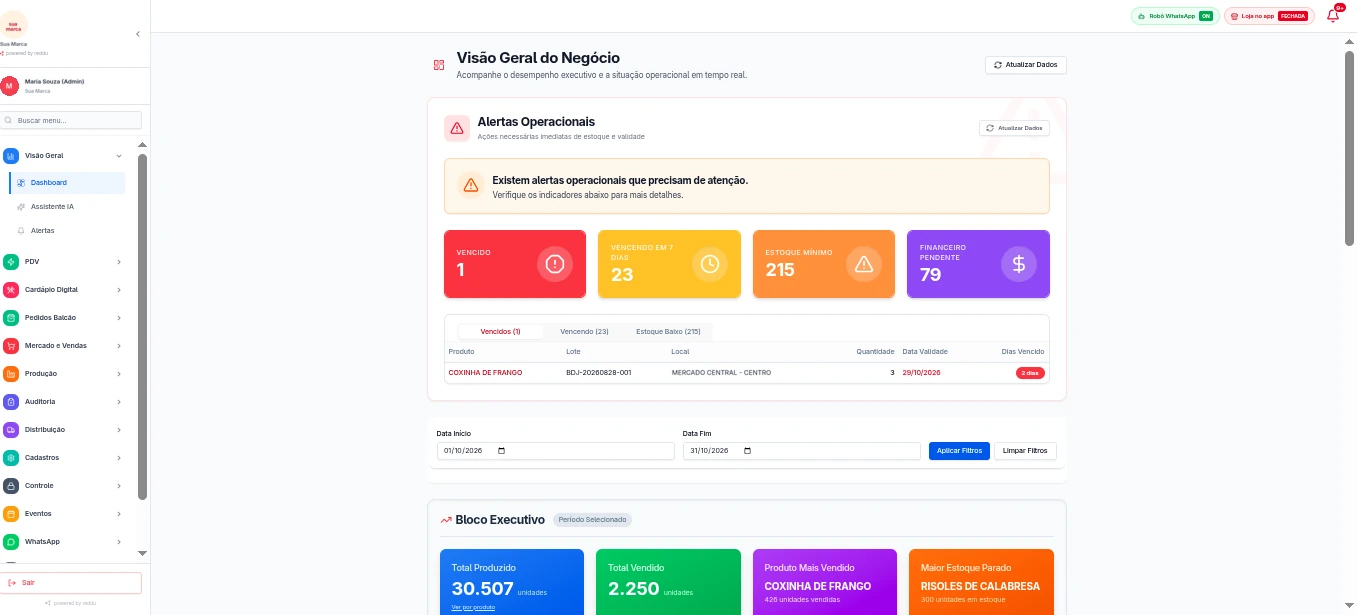
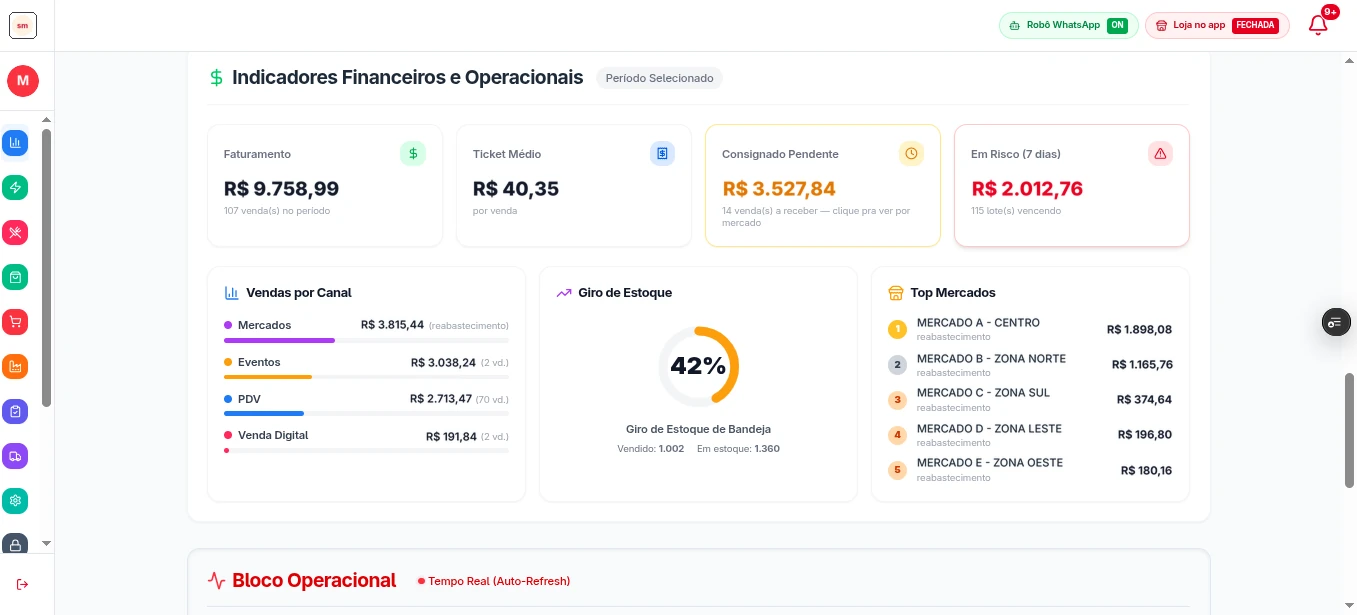
Troca a foto do painel pela tela de indicadores financeiros (anonimizada)
- Nomes de mercados, mascote e inicial da pessoa trocados por genéricos
- Valores reduzidos por um mesmo fator, mantendo as proporções
- Legendas e textos alternativos atualizados para a nova imagem

Claude-Session: https://claude.ai/code/session_012PVGvbjGC6SNyp75Yfze3E

diff --git a/apps/web/src/components/home/SystemTour.jsx b/apps/web/src/components/home/SystemTour.jsx
@@ -18,11 +18,11 @@ export default function SystemTour() {
               src="/screens/dashboard.webp"
               width={1357}
               height={615}
-              label="Visão geral do negócio"
-              alt="Painel do Reddu: alertas operacionais de lotes vencidos, vencendo em 7 dias e estoque mínimo, com indicadores do período"
+              label="Indicadores financeiros e operacionais"
+              alt="Painel do Reddu: faturamento, ticket médio, consignado pendente, vendas por canal, giro de estoque e top mercados"
             />
             <figcaption className="mt-4 text-sm text-gray-400">
-              <span className="font-semibold text-white">Visão geral.</span> Alertas de validade e estoque mínimo e os números do período, num só lugar.
+              <span className="font-semibold text-white">Indicadores do negócio.</span> Faturamento, ticket médio, vendas por canal, giro de estoque e os mercados que mais vendem.
             </figcaption>
           </figure>
           <figure className="lg:col-span-2">

diff --git a/apps/web/src/components/home/HeroMockup.jsx b/apps/web/src/components/home/HeroMockup.jsx
@@ -12,8 +12,8 @@ export default function HeroMockup() {
         src="/screens/dashboard.webp"
         width={1357}
         height={615}
-        label="Painel · Visão geral do negócio"
-        alt="Painel do Reddu com alertas de validade, estoque mínimo e indicadores de produção e vendas"
+        label="Painel · Indicadores do negócio"
+        alt="Painel do Reddu com faturamento, ticket médio, vendas por canal, giro de estoque e top mercados"
       />
       <PhoneFrame
         eager
